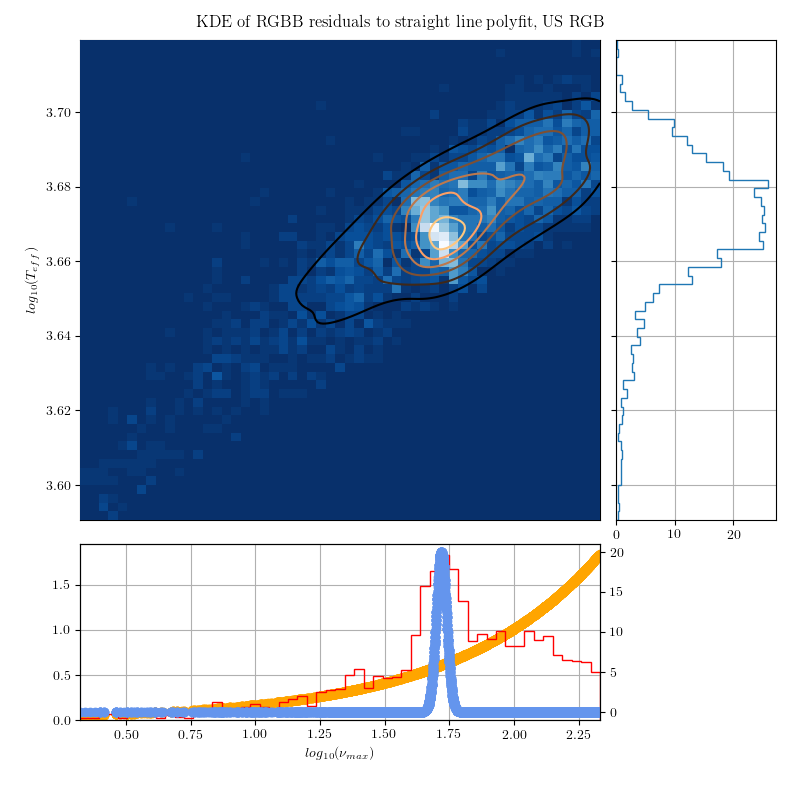
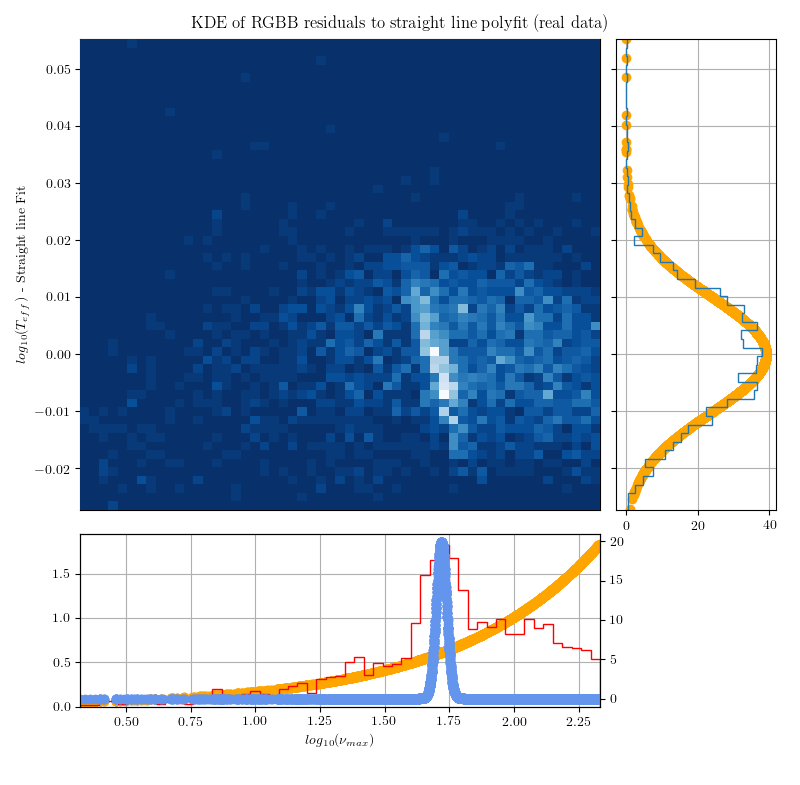
All output plots for RGBb_mixmod.py now functional.

diff --git a/RGBb_mixmod.py b/RGBb_mixmod.py
@@ -42,10 +42,10 @@ class cLikelihood:
 
     #Likelihood for the 'foreground'
     def lnlike_fg(self, p):
-        return self.Model.gauss_x(p)
+        return self.Model.gauss_x(p) + self.Model.gauss_line_y(p)
 
     def lnlike_bg(self, p):
-        return self.Model.exp_x(p)
+        return self.Model.exp_x(p) + self.Model.gauss_line_y(p)
 
     def lnprob(self, p):
         Q = p[-1]
@@ -96,31 +96,40 @@ if __name__ == '__main__':
     ax[1].set_title(r"Histogram in $log_{10}$($\nu_{max}$)")
     ax[1].set_xlabel(r"$log_{10}$($\nu_{max}$ ($\mu$Hz))")
     fig.tight_layout()
-    plt.show()
-    # fig.savefig('Output/investigate_RGB.png')
+    fig.savefig('Output/investigate_RGB.png')
     plt.close('all')
 
 ####---SETTING UP MCMC
-    labels_mc = ["$b$", r"$\sigma(b)$", r"$\lambda$","$Q$"]
-    start_params = np.array([lognuguess, 0.02, 1.8, 0.5])
+    fn = np.polyfit(x, y, 1)
+    fy = x*fn[0]+fn[1]
+
+    labels_mc = ["$b$", r"$\sigma(b)$", r"$\lambda$",r"$m$",r"$c$",r"$\sigma$","$Q$"]
+    start_params = np.array([lognuguess, 0.02, \
+                            1.8,\
+                            fn[0], fn[1], np.std(y-fy),\
+                            0.5])
     bounds = [(lognuguess-.05, lognuguess+.05,), (0.01,0.05),\
-                (1.4, 2.2), (0,1)]
+                (1.4, 2.2),\
+                (fn[0]*0.8, fn[0]*1.2), (fn[1]*0.8, fn[1]*1.2),\
+                (np.std(y-fy)*0.5, np.std(y-fy)*1.5),\
+                (0,1)]
 
     ModeLLs = cLLModels.LLModels(x, y, labels_mc)
     lnprior = cPrior.Prior(bounds)
     Like = cLikelihood(lnprior,ModeLLs)
 
 ####---CHECKING MODELS BEFORE RUN
+
     #Getting the KDE of the 2D distribution
     xxyy = np.ones([len(x),2])
     xxyy[:,0] = x
-    xxyy[:,1] = y
+    xxyy[:,1] = y - fy
     kde = stats.gaussian_kde(xxyy.T)
 
     #Setting up a 2D meshgrid
     size = 200
     xx = np.linspace(x.min(),x.max(),size)
-    yy = np.linspace(y.min(),y.max(),size)
+    yy = np.linspace((y-fy).min(),(y-fy).max(),size)
     X, Y  = np.meshgrid(xx, yy)
     d = np.ones([size, size])
 
@@ -142,28 +151,27 @@ if __name__ == '__main__':
     yax.grid()
     yax.set_axisbelow(True)
 
-    fn = np.polyfit(x, y, 1)
-    fy = x*fn[0]+fn[1]
-
     fig.suptitle('KDE of RGBB residuals to straight line polyfit (real data)')
 
     sax.hist2d(xxyy[:,0],xxyy[:,1],bins=bins, cmap='Blues_r', zorder=1000)
     sax.contour(X,Y,d, cmap='copper', zorder=1001, label='Kernel Density',)
+    sax.axhline(0.,c='r')
     sax.legend(loc='best',fancybox=True)
+
     yax.hist(y-fy,bins=bins,histtype='step',orientation='horizontal', normed=True)
+    yax.scatter(np.exp(ModeLLs.gauss_line_y(start_params)), y-fy,c='orange',label='Line Fit Model')
     yax.set_ylim(sax.get_ylim())
+
     xax2 = xax.twinx()
     xax2.scatter(x,np.exp(ModeLLs.gauss_x(start_params)),c='cornflowerblue', label='RGBB Model')
     xax.scatter(x,np.exp(ModeLLs.exp_x(start_params)),c='orange', label='RGB Model')
     xax.hist(x,bins=bins,histtype='step',color='r',normed=True)
 
-    sax.set_ylabel(r"$log_{10}(T_{eff})$")
+    sax.set_ylabel(r"$log_{10}(T_{eff})$ - Straight line Fit")
     xax.set_xlabel(r"$log_{10}(\nu_{max})$")
     plt.show()
-    # fig.savefig('Output/KDE_visual_RGB.png')
+    fig.savefig('Output/KDE_visual_RGB.png')
     plt.close('all')
-
-    sys.exit()
 
 
 ####---RUNNING MCMC
@@ -180,7 +188,7 @@ if __name__ == '__main__':
     lnK, fg_pp = Fit.log_bayes()
     mask = lnK > 1
     Fit.dump()
-
+    sys.exit()
 ####---PLOTTING RESULTS
     print('Plotting results...')
     npa = chain.shape[1]
@@ -190,29 +198,42 @@ if __name__ == '__main__':
         res[idx] = np.median(chain[:,idx])
         std[idx] = np.std(chain[:,idx])
 
+    resy = res[3]*x + res[4]
+
     #Plotting residuals with histograms
     #Plotting residuals with histograms
-    left, bottom, width, height = 0.1, 0.35, 0.8, 0.60
+    left, bottom, width, height = 0.1, 0.35, 0.55, 0.60
     fig = plt.figure(1, figsize=(8,8))
     sax = fig.add_axes([left, bottom, width, height])
-    xax = fig.add_axes([left, 0.1, width-0.15, 0.22], sharex=sax)
+    yax = fig.add_axes([left+width+0.02, bottom, 0.2, height])
+    xax = fig.add_axes([left, 0.1, width, 0.22], sharex=sax)
     sax.xaxis.set_visible(False)
+    yax.set_yticklabels([])
     xax.grid()
     xax.set_axisbelow(True)
+    yax.grid()
+    yax.set_axisbelow(True)
+    # colax = fig.add_axes([left+width+0.02+0.2+0.02, bottom,0.1, height])
 
     fig.suptitle('KDE of RGBB residuals to straight line polyfit (real data)')
 
-    col = sax.scatter(x, y, c=fg_pp, cmap='viridis')
-    fig.colorbar(col, ax=sax, label = 'RGBB membership posterior probability')
+    col = sax.scatter(x, y-resy, c=fg_pp, s=5, cmap='viridis')
+    sax.axhline(0.,c='r',linestyle='--')
+    fig.colorbar(col, ax=yax, label = 'RGBB membership posterior probability')
+
+    yax.hist(y-resy,bins=bins,histtype='step',orientation='horizontal', normed=True)
+    yax.scatter(np.exp(ModeLLs.gauss_line_y(res)), y-resy,c='orange',label='Line Fit Model')
+    yax.set_ylim(sax.get_ylim())
 
     xax2 = xax.twinx()
     xax2.scatter(x,np.exp(ModeLLs.gauss_x(res)),c='cornflowerblue', label='RGBB Model')
     xax.scatter(x,np.exp(ModeLLs.exp_x(res)),c='orange', label='RGB Model')
     xax.hist(x,bins=bins,histtype='step',color='r',normed=True)
 
-    sax.set_ylabel(r"$log_{10}(T_{eff})$")
-    xax.set_xlabel(r"$log_{10}(\nu_{max})$")
+    sax.set_ylabel(r"log$_{10}(T_{eff})$ - Straight Line Fit")
+    xax.set_xlabel(r"log$_{10}(\nu_{\rm{max}})$")
     fig.savefig('Output/result_RGB.png')
+    plt.show()
     plt.close('all')
 
 
@@ -223,7 +244,7 @@ if __name__ == '__main__':
     ax.scatter(df.Teff[mask], df.numax[mask], c='y', s=3, label='RGBB Stars')
     ax.scatter(df.Teff[~mask], df.numax[~mask], c='g', s=3, label='RGB Stars')
     ax.legend(loc='best',fancybox=True)
-    ax.text(4600,200,r"$\nu_{max}$ RGBB stddev = "+str.format('{0:.3f}',np.std(df.numax[mask]))+r"$\mu$Hz")
+    ax.text(4600,150,r"$\nu_{max}$ RGBB stddev = "+str.format('{0:.3f}',np.std(df.numax[mask]))+r"$\mu$Hz")
     ax.invert_xaxis()
     ax.invert_yaxis()
     ax.set_title(r"Identified RGBB stars in $\nu_{max}$ for real data.")

diff --git a/cLLModels.py b/cLLModels.py
@@ -37,8 +37,8 @@ class LLModels:
         '''A fit in y for a straight line with gaussian noise.'''
         sigma = p[self.locsigma]
         m = p[self.locm]
-        c = p[self.loc]
+        c = p[self.locc]
 
         M = self.x * m + c
-        lnLy = -0.5 * (((M - self.y) / sigma)**2 + 2*np.log(sigma) + np.log(2*np.pi))
+        lnLy = -0.5 * (((self.y - M) / sigma)**2 + 2*np.log(sigma) + np.log(2*np.pi))
         return lnLy
